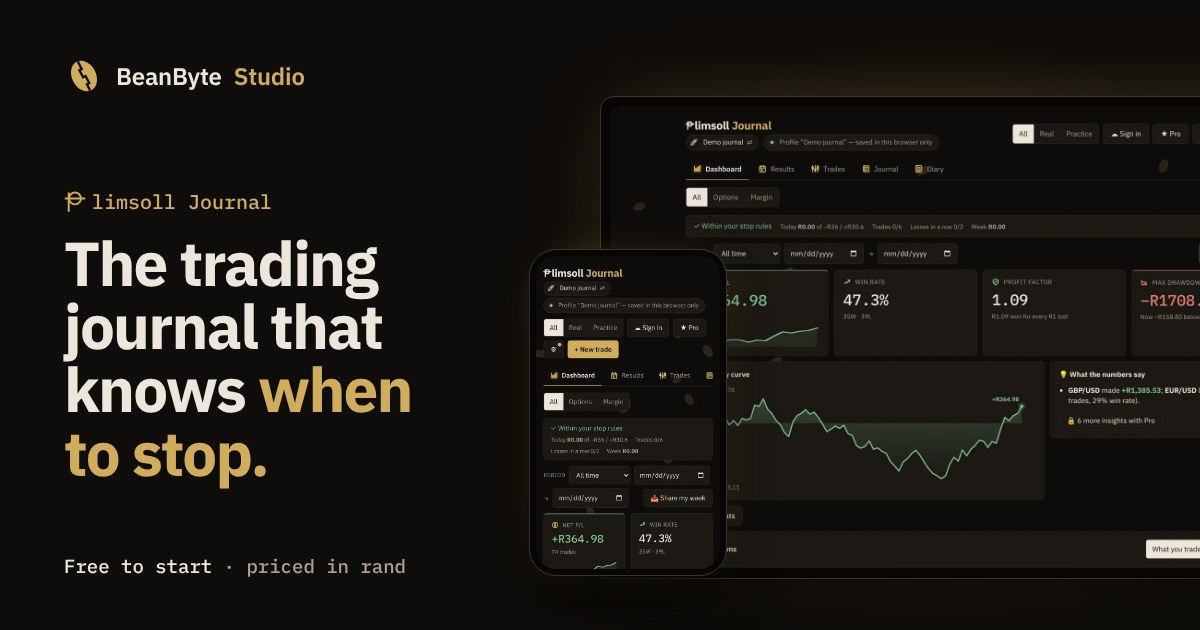
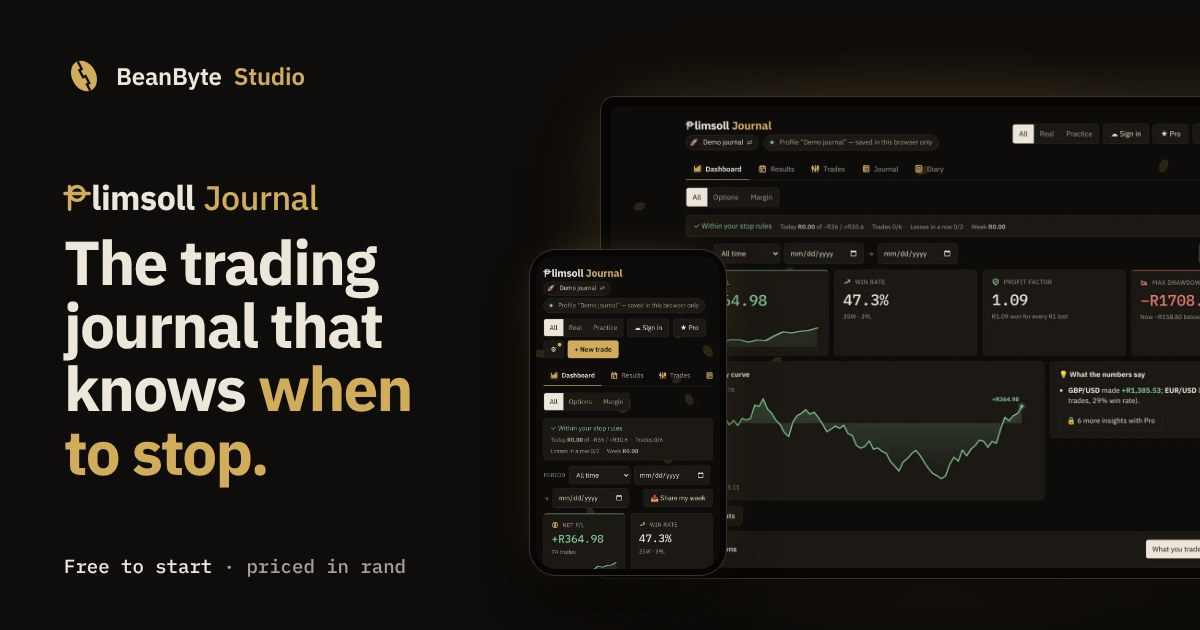
Hero: proper Plimsoll Journal wordmark above the headline
The product name was a 13px mono label, the smallest text in the hero.
It is now a wordmark (load-line P, bold 'limsoll', crema 'Journal') at
30-40px with the founder tag under it. The share image uses the same lockup.

Claude-Session: https://claude.ai/code/session_018NyzGr8scgHn6MpLmkkAmQ

diff --git a/public/index.html b/public/index.html
@@ -42,7 +42,10 @@
       <nav class="nav" aria-label="Main"><a href="#tour" class="hide-sm">Plimsoll Journal</a><a href="#pricing" class="hide-sm">Pricing</a><a href="#headroom" class="hide-sm">Headroom</a><a href="/about" class="hide-sm">About</a><a class="btn btn-main" href="https://plimsoll-journal.pages.dev/?app">Open the app</a></nav>
     </header>
     <div class="hero">
-      <p class="eyebrow" style="justify-content:center"><span aria-label="Plimsoll Journal"><svg class="pj" viewBox="5 6 56 54" aria-hidden="true"><path d="M17 9V58M7 24H59"/><circle cx="33" cy="24" r="15"/></svg>limsoll Journal</span><span class="tag">Founder prices open</span></p>
+      <div class="pj-lockup">
+        <p class="pj-logo" role="img" aria-label="Plimsoll Journal"><svg class="pj" viewBox="5 6 56 54" aria-hidden="true"><path d="M17 9V58M7 24H59"/><circle cx="33" cy="24" r="15"/></svg><span class="pj-word" aria-hidden="true">limsoll</span><span class="pj-sub" aria-hidden="true">Journal</span></p>
+        <span class="tag">Founder prices open</span>
+      </div>
       <h1 class="h1">The trading journal that knows <em>when to stop.</em></h1>
       <p class="lead" style="margin-inline:auto">Log every trade, set your daily stop rules, and see your win rate, profit factor and drawdown in rand. Plimsoll tells you when you've hit your limit for the day, so you know when to walk away.</p>
       <div class="actions" style="justify-content:center"><a class="btn btn-main" href="https://plimsoll-journal.pages.dev/?app">Start free, no sign-up</a><a class="btn btn-plain" href="#tour">Take the tour</a></div>

diff --git a/public/home.css b/public/home.css
@@ -66,6 +66,13 @@ h1, h2, h3 { text-wrap: balance; }
 /* Plimsoll wordmark: the P is the Plimsoll line */
 .pj { display: inline-block; height: .72em; width: auto; vertical-align: baseline; overflow: visible; margin-right: .02em; }
 .pj * { fill: none; stroke: currentColor; stroke-width: 8; stroke-linecap: round; }
+/* Plimsoll Journal wordmark in the hero: the load-line P, then the name. */
+.pj-lockup { display: flex; flex-direction: column; align-items: center; gap: 14px; margin-bottom: 26px; }
+.pj-logo { margin: 0; display: inline-flex; align-items: baseline; font-size: clamp(30px, 3.6vw, 40px); line-height: 1; letter-spacing: -.6px; color: var(--milk); }
+.pj-logo .pj { color: var(--crema); height: .74em; margin-right: .03em; }
+.pj-logo .pj * { stroke-width: 7.5; }
+.pj-word { font-weight: 700; }
+.pj-sub { font-weight: 500; color: var(--crema); margin-left: .26em; }
 
 /* Hero stage: real screens in device frames */
 .hero { padding-block: 80px 0; text-align: center; }
